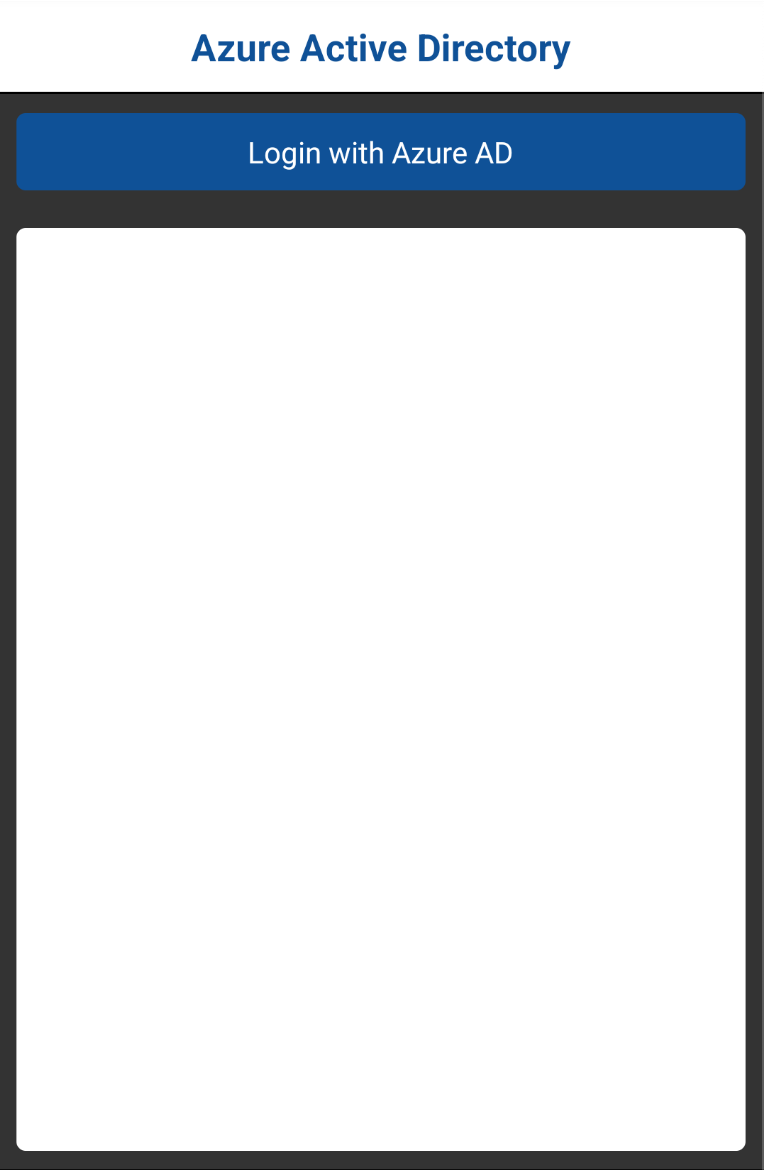
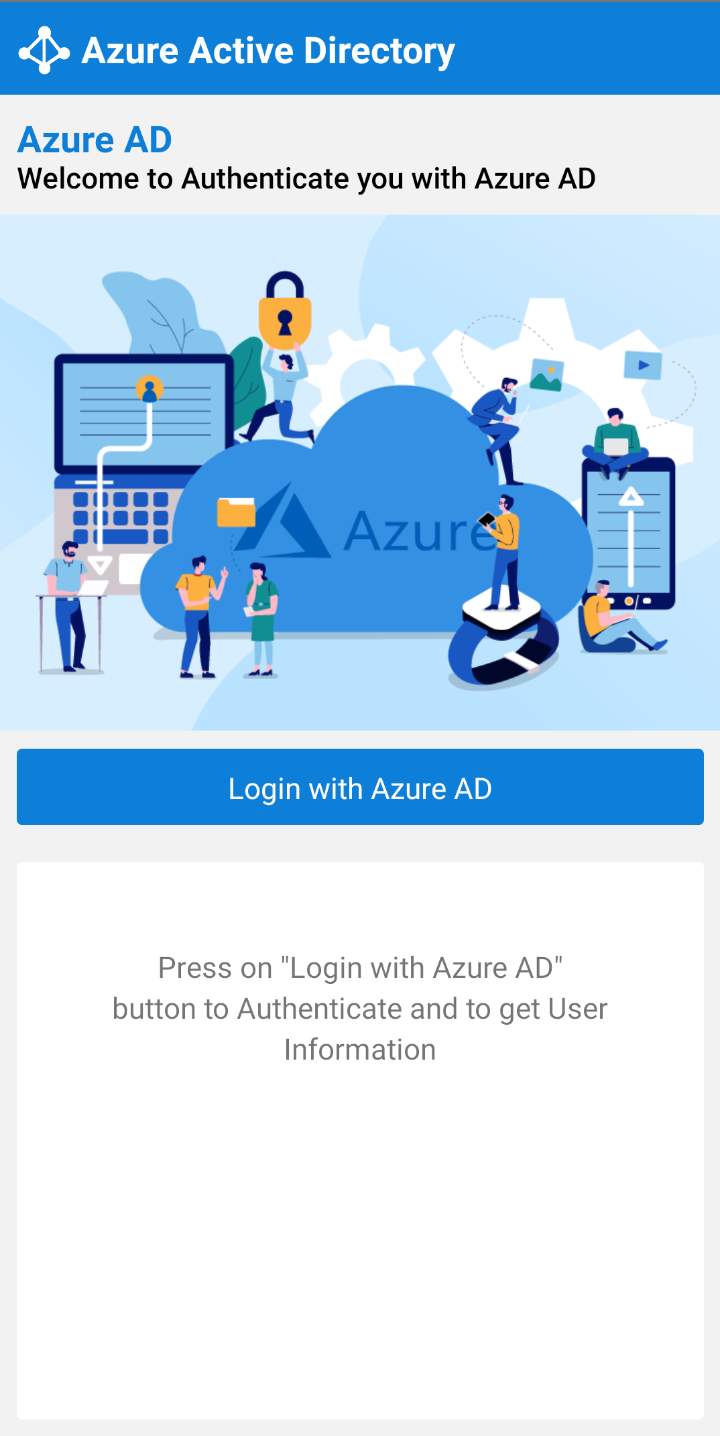
update design

diff --git a/modules/react-native-azure-ad-auth/index.js b/modules/react-native-azure-ad-auth/index.js
@@ -1,6 +1,6 @@
-import React, { useContext, useEffect, useState } from "react";
+import React, { useContext, useEffect, useState, Fragment } from "react";
 import { OptionsContext } from "@options";
-import { SafeAreaView, View, Text, TouchableOpacity, Alert, SectionList, ActivityIndicator } from "react-native";
+import { SafeAreaView, View, Text, TouchableOpacity, Alert, SectionList, ActivityIndicator, Image } from "react-native";
 import AzureAuth from "react-native-azure-auth";
 import { mapObjectToArray, validateConfig } from "./utils";
 
@@ -81,23 +81,38 @@ const AzureADAuth = () => {
   return (
     <SafeAreaView style={options.styles.safeArea}>
       <View style={options.styles.container}>
-        <View style={[options.styles.header, options.styles.backgroundWhite]}>
-          <Text style={[options.styles.headerText, options.styles.fontBold]}>Azure Active Directory</Text>
+        <View style={[options.styles.header, options.styles.backgroundColor, options.styles.alignCenter]}>
+          <Image style={options.styles.logo} source={require("./assets/logo.png")} />
+          <Text style={[options.styles.fontBold, options.styles.title, options.styles.fontSize20]}>Azure Active Directory</Text>
         </View>
-        <TouchableOpacity style={[options.styles.button, options.styles.commonPadding, options.styles.commonRadius]} onPress={fetchUserInfo}>
+        <View style={options.styles.titleContainer}>
+          <Text style={[options.styles.azureTitle, options.styles.fontBold, options.styles.fontSize20]}>Azure AD</Text>
+          <Text style={[options.styles.azureDescription, options.styles.fontSixteen, options.styles.lineHeight18]}>Welcome to Authenticate you with Azure AD</Text>
+        </View>
+        <Image style={options.styles.bannerImage} resizeMode="cover" source={require("./assets/banner.png")} />
+        <TouchableOpacity style={[options.styles.button, options.styles.commonPadding, options.styles.commonRadius, options.styles.alignCenter]} onPress={fetchUserInfo}>
           <Text style={[options.styles.title, options.styles.fontSixteen]}>Login with Azure AD</Text>
         </TouchableOpacity>
-        <View style={[options.styles.responseSection, options.styles.backgroundWhite, options.styles.commonPadding, options.styles.commonRadius]}>
-          {loader && <ActivityIndicator /> }
-          <SectionList
-            sections={userInfo}
-            renderItem={({ item }) => <FlatListItem item={item}/>}
-            renderSectionHeader={({ section: { title } }) => (
-              <Text style={options.styles.sectionHeaderTitle}>{title}</Text>
-            )}
-          />
+        <View style={[options.styles.responseSection, options.styles.backgroundWhite, options.styles.commonPadding, options.styles.commonRadius, options.styles.alignCenter]}>
+          {loader
+            ? <ActivityIndicator />
+            : <Fragment>
+            {
+              userInfo.length === 0 &&
+              <Text style={[options.styles.fontSixteen, options.styles.indicationText, options.styles.lineHeight22, options.styles.textCenter]}>
+                Press on &quot;Login with Azure AD&quot; button to Authenticate and to get User Information
+              </Text>
+            }
+            <SectionList
+              sections={userInfo}
+              renderItem={({ item }) => <FlatListItem item={item} />}
+              renderSectionHeader={({ section: { title } }) => (
+                <Text style={options.styles.sectionHeaderTitle}>{title}</Text>
+              )}
+            />
+          </Fragment>
+          }
         </View>
-
       </View>
     </SafeAreaView>
   );

diff --git a/modules/react-native-azure-ad-auth/options.js b/modules/react-native-azure-ad-auth/options.js
@@ -1,26 +1,61 @@
 import { StyleSheet } from "react-native";
 
 const styles = StyleSheet.create({
+  backgroundColor: {
+    backgroundColor: "#0d7fd8"
+  },
+  logo: {
+    width: 40,
+    height: 40
+  },
+  titleContainer: {
+    paddingLeft: 10,
+    marginVertical: 10
+  },
+  fontSize20: {
+    fontSize: 20
+  },
+  azureTitle: {
+    color: "#0d7fd8"
+  },
+  azureDescription: {
+    color: "#000",
+    fontWeight: "500"
+  },
+  bannerImage: {
+    width: "100%",
+    height: 280
+  },
+  indicationText: {
+    width: 270,
+    marginTop: "10%"
+  },
+  textCenter: {
+    textAlign: "center"
+  },
+  lineHeight22: {
+    lineHeight: 22
+  },
+  lineHeight18: {
+    lineHeight: 18
+  },
   safeArea: {
     height: "100%"
   },
   container: {
-    flex: 1,
-    backgroundColor: "#333333"
+    flex: 1
   },
   header: {
     height: 50,
-    justifyContent: "center",
-    alignItems: "center",
-    borderBottomWidth: 1
+    paddingLeft: 5,
+    flexDirection: "row",
+    justifyContent: "flex-start"
   },
-  headerText: {
-    fontSize: 20,
-    color: "#0F5197"
+  alignCenter: {
+    alignItems: "center"
   },
   button: {
-    backgroundColor: "#0F5197",
-    alignItems: "center"
+    backgroundColor: "#0d7fd8"
   },
   commonPadding: {
     padding: 10,
@@ -57,7 +92,7 @@ const styles = StyleSheet.create({
     fontSize: 22
   },
   commonRadius: {
-    borderRadius: 5
+    borderRadius: 3
   }
 });
 
